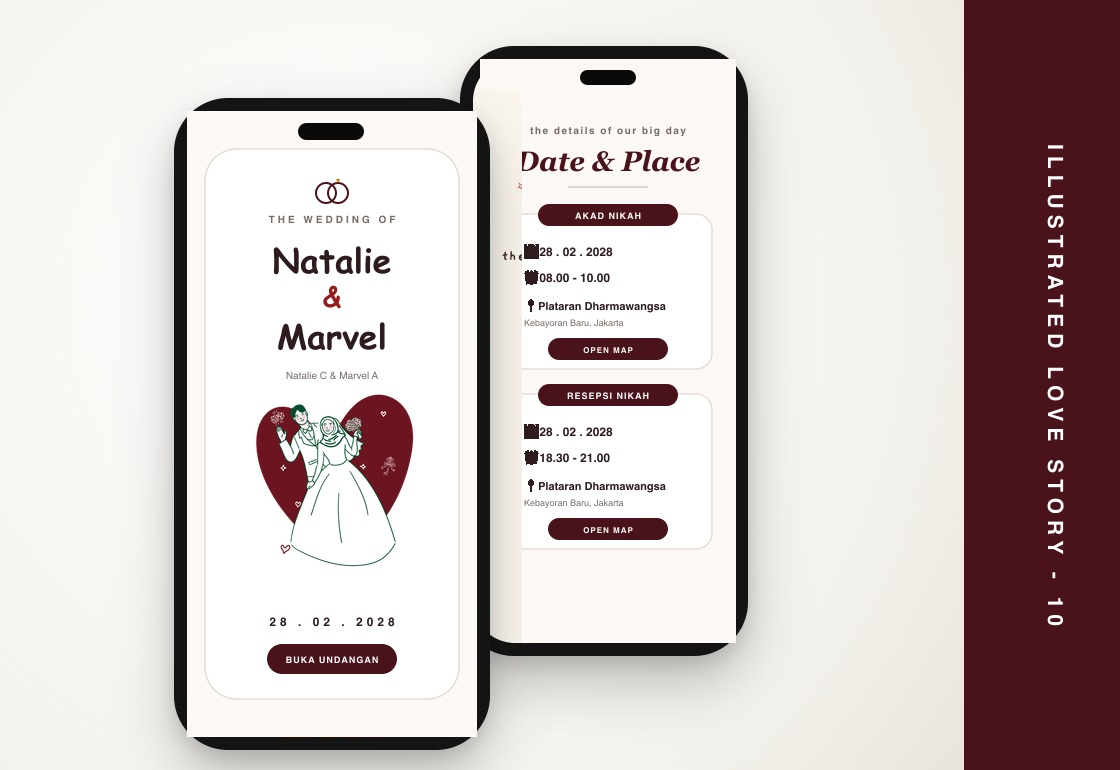
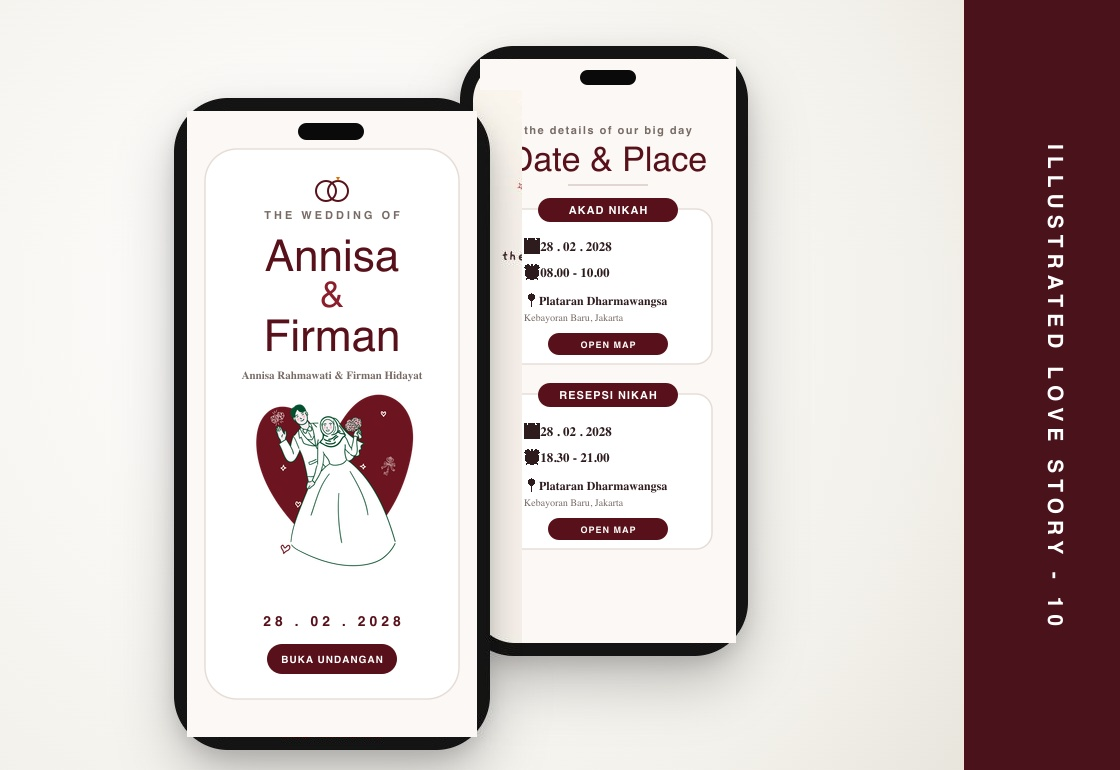
feat(fonts): apply BeautyLife, Brawford, Erabura fonts and Annisa & Firman couple names

diff --git a/app/globals.css b/app/globals.css
@@ -2,9 +2,36 @@
 @import "tailwindcss";
 
 @font-face {
+  font-family: "Beauty Life";
+  src: url("/assets/template/font/BeautyLife.ttf") format("truetype"),
+       url("https://cdn.serastory.com/undangan/templates/illustrated-love-story-10/font/BeautyLife.ttf") format("truetype");
+  font-weight: normal;
+  font-style: normal;
+  font-display: swap;
+}
+
+@font-face {
+  font-family: "Brawford";
+  src: url("/assets/template/font/Brawford.otf") format("opentype"),
+       url("https://cdn.serastory.com/undangan/templates/illustrated-love-story-10/font/Brawford.otf") format("opentype");
+  font-weight: normal;
+  font-style: normal;
+  font-display: swap;
+}
+
+@font-face {
+  font-family: "Erabura";
+  src: url("/assets/template/font/Erabura%20Regular.otf") format("opentype"),
+       url("https://cdn.serastory.com/undangan/templates/illustrated-love-story-10/font/Erabura%20Regular.otf") format("opentype");
+  font-weight: normal;
+  font-style: normal;
+  font-display: swap;
+}
+
+@font-face {
   font-family: "Gaegu";
   src: url("/assets/template/font/Gaegu-Light.ttf") format("truetype"),
-       url("https://www.serastory.com/storage/undangan/templates/illustrated-love-story-01/font/Gaegu-Light.ttf") format("truetype");
+       url("https://cdn.serastory.com/undangan/templates/illustrated-love-story-10/font/Gaegu-Light.ttf") format("truetype");
   font-weight: 300;
   font-style: normal;
   font-display: swap;
@@ -13,7 +40,7 @@
 @font-face {
   font-family: "Gaegu";
   src: url("/assets/template/font/Gaegu-Regular.ttf") format("truetype"),
-       url("https://www.serastory.com/storage/undangan/templates/illustrated-love-story-01/font/Gaegu-Regular.ttf") format("truetype");
+       url("https://cdn.serastory.com/undangan/templates/illustrated-love-story-10/font/Gaegu-Regular.ttf") format("truetype");
   font-weight: 400;
   font-style: normal;
   font-display: swap;
@@ -22,34 +49,17 @@
 @font-face {
   font-family: "Gaegu";
   src: url("/assets/template/font/Gaegu-Bold.ttf") format("truetype"),
-       url("https://www.serastory.com/storage/undangan/templates/illustrated-love-story-01/font/Gaegu-Bold.ttf") format("truetype");
+       url("https://cdn.serastory.com/undangan/templates/illustrated-love-story-10/font/Gaegu-Bold.ttf") format("truetype");
   font-weight: 700;
   font-style: normal;
   font-display: swap;
 }
 
+/* Fallbacks for backward compatibility */
 @font-face {
   font-family: "Lovely Melody";
-  src: url("/assets/template/font/Lovely%20Melody.otf") format("opentype"),
-       url("https://www.serastory.com/storage/undangan/templates/illustrated-love-story-01/font/Lovely%20Melody.otf") format("opentype");
-  font-weight: normal;
-  font-style: normal;
-  font-display: swap;
-}
-
-@font-face {
-  font-family: "Monarque Signature";
-  src: url("/assets/template/font/Monarque%20Signature.otf") format("opentype"),
-       url("https://www.serastory.com/storage/undangan/templates/illustrated-love-story-01/font/Monarque%20Signature.otf") format("opentype");
-  font-weight: normal;
-  font-style: normal;
-  font-display: swap;
-}
-
-@font-face {
-  font-family: "Abside";
-  src: url("/assets/template/font/Abside-Regular.otf") format("opentype"),
-       url("https://www.serastory.com/storage/undangan/templates/illustrated-love-story-01/font/Abside-Regular.otf") format("opentype");
+  src: url("/assets/template/font/BeautyLife.ttf") format("truetype"),
+       url("https://cdn.serastory.com/undangan/templates/illustrated-love-story-10/font/BeautyLife.ttf") format("truetype");
   font-weight: normal;
   font-style: normal;
   font-display: swap;
@@ -61,14 +71,27 @@
 }
 
 @theme inline {
-  --font-melody: "Lovely Melody", cursive, sans-serif;
+  --font-beautylife: "Beauty Life", cursive, sans-serif;
+  --font-brawford: "Brawford", serif;
+  --font-erabura: "Erabura", cursive, sans-serif;
   --font-gaegu: "Gaegu", cursive, sans-serif;
-  --font-signature: "Monarque Signature", cursive, sans-serif;
-  --font-abside: "Abside", sans-serif;
+  --font-melody: "Beauty Life", cursive, sans-serif;
+}
+
+.font-beautylife {
+  font-family: "Beauty Life", cursive, sans-serif;
+}
+
+.font-brawford {
+  font-family: "Brawford", serif;
+}
+
+.font-erabura {
+  font-family: "Erabura", cursive, sans-serif;
 }
 
 .font-melody {
-  font-family: "Lovely Melody", cursive, sans-serif;
+  font-family: "Beauty Life", cursive, sans-serif;
 }
 
 .font-gaegu {
@@ -88,14 +111,6 @@
 .font-gaegu-bold {
   font-family: "Gaegu", cursive, sans-serif !important;
   font-weight: 700 !important;
-}
-
-.font-signature {
-  font-family: "Monarque Signature", cursive, sans-serif;
-}
-
-.font-abside {
-  font-family: "Abside", sans-serif;
 }
 
 body {

diff --git a/app/components/RightSidebar.tsx b/app/components/RightSidebar.tsx
@@ -719,11 +719,11 @@ export default function RightSidebar({ guestName, guest, project, events, wishes
                   className="w-10 sm:w-12 h-auto object-contain select-none pointer-events-none drop-shadow-sm"
                 />
               </div>
-              <p className="font-gaegu font-bold text-[11px] sm:text-xs tracking-[0.3em] uppercase text-neutral-600">
+              <p className="font-erabura font-bold text-[11px] sm:text-xs tracking-[0.3em] uppercase text-neutral-600">
                 THE WEDDING OF
               </p>
-              <h1 className="font-gaegu font-bold text-3xl sm:text-4xl lg:text-4xl text-neutral-900 leading-tight tracking-wide drop-shadow-sm">
-                {brideNickname} <span className="text-red-600 font-gaegu text-2xl sm:text-3xl">&amp;</span> {groomNickname}
+              <h1 className="font-beautylife text-4xl sm:text-5xl lg:text-5xl text-[#6B1020] leading-tight tracking-wide drop-shadow-sm">
+                {brideNickname} <span className="text-[#8B1D2C] font-beautylife text-3xl sm:text-4xl">&amp;</span> {groomNickname}
               </h1>
             </div>
 
@@ -761,13 +761,13 @@ export default function RightSidebar({ guestName, guest, project, events, wishes
               <div className="bg-white/85 backdrop-blur-md rounded-2xl border border-neutral-200/90 p-3 sm:p-3.5 shadow-[0_4px_18px_-4px_rgba(0,0,0,0.06)] space-y-1.5 transition-all">
                 <div className="flex items-center justify-center gap-2 text-neutral-400">
                   <span className="h-[1px] w-5 bg-neutral-200" />
-                  <p className="font-gaegu font-bold text-[11px] sm:text-xs text-neutral-500 uppercase tracking-wider">
+                  <p className="font-erabura font-bold text-[11px] sm:text-xs text-neutral-500 uppercase tracking-wider">
                     Kepada Yth. Bapak/Ibu/Saudara/i:
                   </p>
                   <span className="h-[1px] w-5 bg-neutral-200" />
                 </div>
                 <div className="px-2 py-0.5">
-                  <p className="font-gaegu font-bold text-lg sm:text-xl text-neutral-900 tracking-wide truncate drop-shadow-2xs">
+                  <p className="font-brawford font-bold text-xl sm:text-2xl text-neutral-900 tracking-wide truncate drop-shadow-2xs">
                     {guestName}
                   </p>
                 </div>
@@ -841,7 +841,7 @@ export default function RightSidebar({ guestName, guest, project, events, wishes
             whileInView={{ opacity: 1, y: 0 }}
             viewport={{ once: false, amount: 0.2 }}
             transition={{ duration: 0.6 }}
-            className="text-xs sm:text-sm font-gaegu tracking-[0.25em] text-neutral-800 uppercase font-bold"
+            className="text-xs sm:text-sm font-erabura tracking-[0.25em] text-neutral-800 uppercase font-bold"
           >
             YOU ARE INVITED TO OUR WEDDING
           </motion.p>
@@ -868,10 +868,10 @@ export default function RightSidebar({ guestName, guest, project, events, wishes
             whileInView={{ scale: 1, opacity: 1, y: 0 }}
             viewport={{ once: false, amount: 0.2 }}
             transition={{ duration: 0.7, ease: [0.22, 1, 0.36, 1] }}
-            className="font-gaegu font-bold text-4xl sm:text-5xl text-neutral-900 leading-tight tracking-wide drop-shadow-sm"
+            className="font-beautylife text-5xl sm:text-6xl text-[#6B1020] leading-tight tracking-wide drop-shadow-sm"
           >
             {brideNickname} <br />
-            <span className="text-red-600 font-gaegu font-bold text-3xl sm:text-4xl inline-block animate-pulse">&amp;</span> <br />
+            <span className="text-[#8B1D2C] font-beautylife text-4xl sm:text-5xl inline-block">&amp;</span> <br />
             {groomNickname}
           </motion.h1>
 
@@ -883,7 +883,7 @@ export default function RightSidebar({ guestName, guest, project, events, wishes
               transition={{ delay: 0.1, duration: 0.6 }}
               className="mt-2 space-y-0.5"
             >
-              <p className="font-gaegu text-lg sm:text-xl font-bold text-neutral-800 tracking-wide">
+              <p className="font-brawford text-xl sm:text-2xl text-neutral-800 tracking-wide">
                 {brideFull} &amp; {groomFull}
               </p>
               {Boolean(brideFather || brideMother) && (

diff --git a/app/[[...name]]/page.tsx b/app/[[...name]]/page.tsx
@@ -68,10 +68,10 @@ export async function generateMetadata({ params, searchParams }: Props): Promise
     guestName = dbData.guest.name;
   }
 
-  const brideName = dbData.project?.bride_nickname || "Natalie";
-  const groomName = dbData.project?.groom_nickname || "Marvel";
-  const brideFull = dbData.project?.bride_name || "Natalie C";
-  const groomFull = dbData.project?.groom_name || "Marvel A";
+  const brideName = dbData.project?.bride_nickname || "Annisa";
+  const groomName = dbData.project?.groom_nickname || "Firman";
+  const brideFull = dbData.project?.bride_name || "Annisa Rahmawati";
+  const groomFull = dbData.project?.groom_name || "Firman Hidayat";
 
   const title = `Wedding Invitation for ${guestName} | ${groomName} & ${brideName}`;
   const description = `We cordially invite ${guestName} to share our special day. The wedding celebration of ${groomFull} & ${brideFull}.`;
@@ -156,10 +156,10 @@ export default async function Home({ params, searchParams }: Props) {
     guestName = dbData.guest.name;
   }
 
-  const brideNickname = dbData.project?.bride_nickname || "Natalie";
-  const groomNickname = dbData.project?.groom_nickname || "Marvel";
-  const brideFull = dbData.project?.bride_name || "Natalie C";
-  const groomFull = dbData.project?.groom_name || "Marvel A";
+  const brideNickname = dbData.project?.bride_nickname || "Annisa";
+  const groomNickname = dbData.project?.groom_nickname || "Firman";
+  const brideFull = dbData.project?.bride_name || "Annisa Rahmawati";
+  const groomFull = dbData.project?.groom_name || "Firman Hidayat";
   const weddingDateRaw = dbData.events?.[0]?.event_date || dbData.project?.wedding_date || (dbData.project?.countdown_target ? dbData.project.countdown_target.split('T')[0] : null);
 
   const formatDateDot = (dateStr?: string | null) => {
@@ -207,7 +207,7 @@ export default async function Home({ params, searchParams }: Props) {
 
         {/* Center Card / Typography Overlay */}
         <div className="relative z-10 text-center px-8 py-10 rounded-3xl bg-white/85 backdrop-blur-md border-2 border-neutral-900 shadow-2xl max-w-md mx-6">
-          <p className="text-xs uppercase font-gaegu font-bold tracking-[0.25em] text-neutral-800 mb-2">
+          <p className="text-xs uppercase font-erabura font-bold tracking-[0.25em] text-neutral-800 mb-2">
             The Wedding Of
           </p>
 
@@ -215,21 +215,21 @@ export default async function Home({ params, searchParams }: Props) {
             <img src={ASSETS.topRings} alt="Rings" className="w-10 h-auto object-contain" />
           </div>
 
-          <h1 className="font-gaegu font-bold text-4xl lg:text-5xl text-neutral-900 leading-tight mb-2">
+          <h1 className="font-beautylife text-5xl lg:text-6xl text-[#6B1020] leading-tight mb-2">
             {brideNickname} <br />
-            <span className="text-red-600 font-gaegu font-bold text-3xl lg:text-4xl">&amp;</span> <br />
+            <span className="text-[#8B1D2C] font-beautylife text-4xl lg:text-5xl">&amp;</span> <br />
             {groomNickname}
           </h1>
 
           {(brideFull || groomFull) && (
-            <p className="font-gaegu text-base lg:text-lg text-neutral-700 font-bold tracking-wide mb-1">
+            <p className="font-brawford text-base lg:text-lg text-neutral-700 tracking-wide mb-1">
               {brideFull} &amp; {groomFull}
             </p>
           )}
 
-          <div className="h-0.5 w-16 bg-neutral-900 mx-auto my-3"></div>
+          <div className="h-0.5 w-16 bg-[#6B1020] mx-auto my-3"></div>
 
-          <p className="text-base font-gaegu font-bold tracking-[0.3em] text-neutral-800 uppercase">
+          <p className="text-base font-erabura font-bold tracking-[0.3em] text-[#6B1020] uppercase">
             {formattedDate}
           </p>
 
